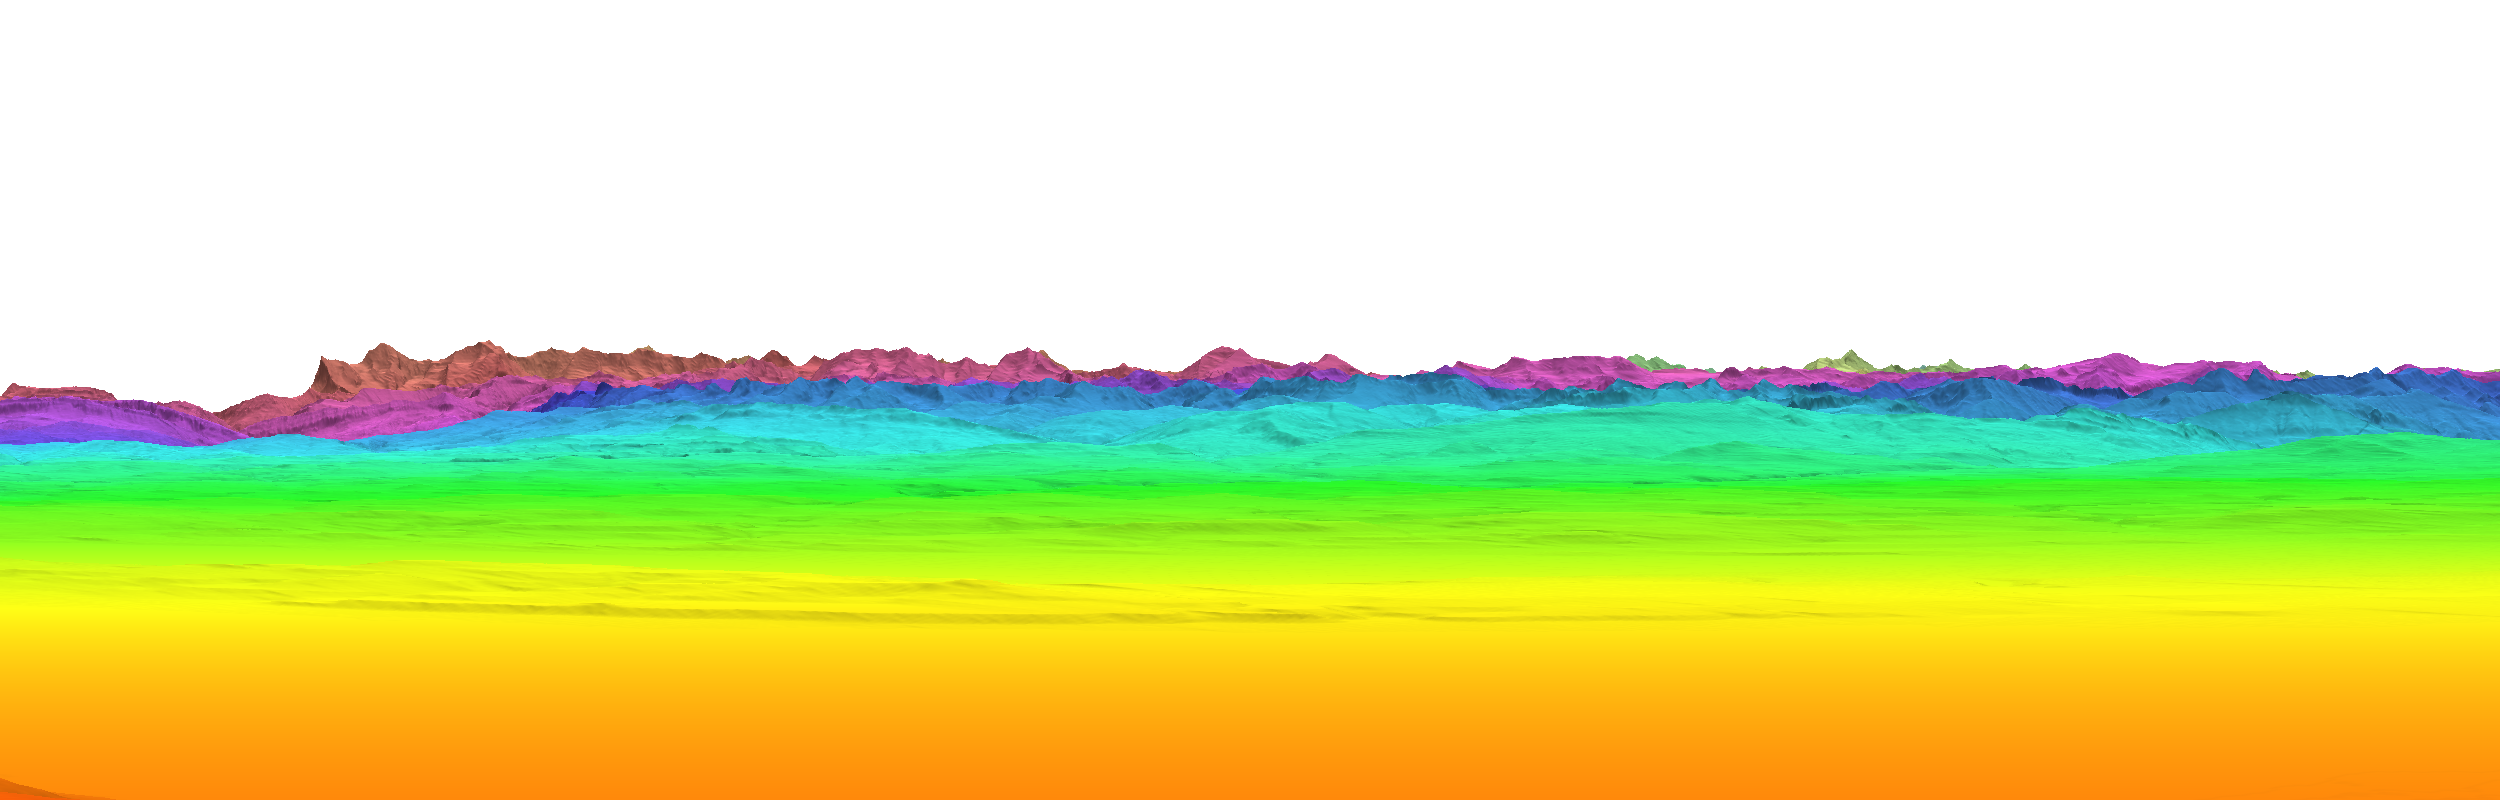
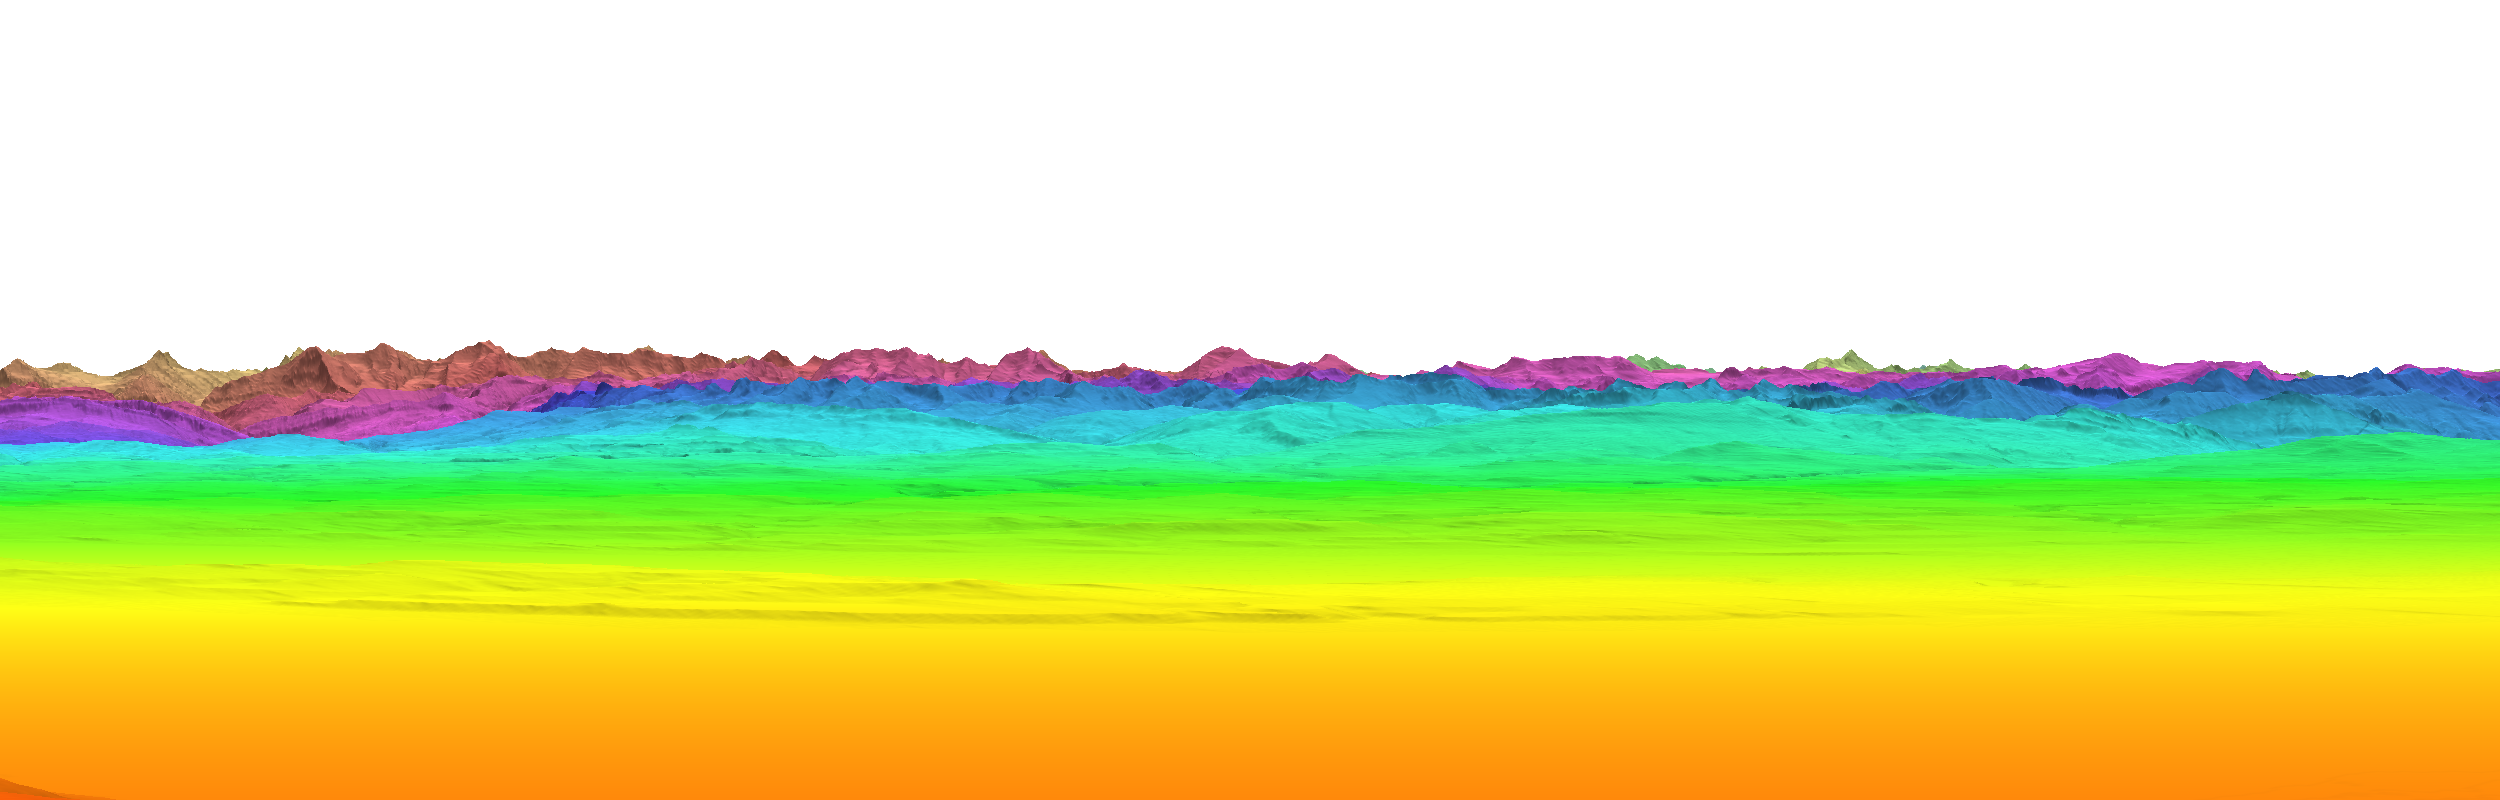
New method to load HgtDEMs faster.

Changed region(s): [[0.0, 0.4375, 0.156, 0.5312]]

diff --git a/src/ch/epfl/alpano/draw/DrawUserPanoramaColor.java b/src/ch/epfl/alpano/draw/DrawUserPanoramaColor.java
@@ -8,6 +8,7 @@ import static javax.imageio.ImageIO.write;
 
 import java.io.File;
 import java.io.IOException;
+import java.sql.Time;
 
 import ch.epfl.alpano.Panorama;
 import ch.epfl.alpano.PanoramaComputer;
@@ -15,6 +16,7 @@ import ch.epfl.alpano.PanoramaParameters;
 import ch.epfl.alpano.dem.ContinuousElevationModel;
 import ch.epfl.alpano.dem.DiscreteElevationModel;
 import ch.epfl.alpano.dem.HgtDiscreteElevationModel;
+import ch.epfl.alpano.dem.SuperHgtDiscreteElevationModel;
 import ch.epfl.alpano.gui.ChannelPainter;
 import ch.epfl.alpano.gui.ImagePainter;
 import ch.epfl.alpano.gui.PanoramaRenderer;
@@ -27,37 +29,37 @@ import javafx.scene.image.Image;
  * @author Maxence Jouve (269716)
  */
 final class DrawUserPanoramaColor {
+    private static final long START = System.nanoTime();
+
     final static File HGT_FILE_46_7 = new File("N46E007.hgt"),
             HGT_FILE_46_6 = new File("N46E006.hgt"),
             HGT_FILE_45_7 = new File("N45E007.hgt"),
             HGT_FILE_45_6 = new File("N45E006.hgt");
 
-    final static PanoramaParameters NIESEN = niesen().panoramaParameters(),
-            JURA = alpsFromJura().panoramaParameters(),
-            RACINE = racine().panoramaParameters(),
-            FINSTER = finsteraarhorn().panoramaParameters(),
-            SAUVABELIN = sauvabelin().panoramaParameters(),
-            PELICAN = pelican().panoramaParameters();
-
     public static void main(String[] as) throws IOException {
-        long start = System.nanoTime();
-        DiscreteElevationModel dDEM = new HgtDiscreteElevationModel(
-                HGT_FILE_46_7)
-                        .union(new HgtDiscreteElevationModel(HGT_FILE_46_6))
-                        .union((new HgtDiscreteElevationModel(HGT_FILE_45_7))
-                                .union(new HgtDiscreteElevationModel(
-                                        HGT_FILE_45_6)));
+        DiscreteElevationModel dDEM = new SuperHgtDiscreteElevationModel();
         PanoramaComputer p = new PanoramaComputer(
                 new ContinuousElevationModel(dDEM));
-        outputImage(p.computePanorama(NIESEN), "niesen-user.png");
-        outputImage(p.computePanorama(JURA), "jura-user.png");
-        outputImage(p.computePanorama(RACINE), "racine-user.png");
-        outputImage(p.computePanorama(FINSTER), "finsteraarhorn-user.png");
-        outputImage(p.computePanorama(SAUVABELIN), "sauvabelin-user.png");
-        outputImage(p.computePanorama(PELICAN), "pelican-user.png");
-        long stop = System.nanoTime();
-        System.out.printf("DrawPanoramaColor took %.3f ms.%n",
-                (stop - start) * 1e-6);
+        System.out.printf("PanoramaComputer loaded after %.3f ms.%n", getMS());
+        outputImage(p.computePanorama(NIESEN.panoramaParameters()),
+                "niesen-user.png");
+        System.out.printf("Niesen drawn after %.3f ms.%n", getMS());
+        outputImage(p.computePanorama(JURA.panoramaParameters()),
+                "jura-user.png");
+        System.out.printf("Jura drawn after %.3f ms.%n", getMS());
+        outputImage(p.computePanorama(RACINE.panoramaParameters()),
+                "racine-user.png");
+        System.out.printf("Racine drawn after %.3f ms.%n", getMS());
+        outputImage(p.computePanorama(FINSTER.panoramaParameters()),
+                "finsteraarhorn-user.png");
+        System.out.printf("Finsteraarhorn drawn after %.3f ms.%n", getMS());
+        outputImage(p.computePanorama(SAUVABELIN.panoramaParameters()),
+                "sauvabelin-user.png");
+        System.out.printf("Sauvabelin drawn after %.3f ms.%n", getMS());
+        outputImage(p.computePanorama(PELICAN.panoramaParameters()),
+                "pelican-user.png");
+        System.out.printf("Pelican drawn after %.3f ms, programm finished.%n",
+                getMS());
     }
 
     private static void outputImage(Panorama p, String name)
@@ -75,5 +77,9 @@ final class DrawUserPanoramaColor {
 
         Image i = PanoramaRenderer.renderPanorama(p, l);
         write(fromFXImage(i, null), "png", new File(name));
+    }
+
+    private static double getMS() {
+        return (System.nanoTime() - START) * 1e-6;
     }
 }

diff --git a/src/ch/epfl/alpano/gui/PredefinedPanoramas.java b/src/ch/epfl/alpano/gui/PredefinedPanoramas.java
@@ -16,23 +16,19 @@ public interface PredefinedPanoramas {
 
     /**
      * Crée les paramètres utilisateurs du Panorama du Niesen.
-     * 
-     * @return Les paramètres utilisateurs du Panorama du Niesen.
      */
-    static PanoramaUserParameters niesen() {
-        return new PanoramaUserParameters(7_6500, 46_7300, 600, 180, 110,
-                MAX_DISTANCE, WIDTH, HEIGHT, SUPER_SAMPLING_EX);
-    }
+    static PanoramaUserParameters NIESEN = new PanoramaUserParameters(7_6500,
+            46_7300, 600, 180, 110, MAX_DISTANCE, WIDTH, HEIGHT,
+            SUPER_SAMPLING_EX);
 
     /**
      * Crée les paramètres utilisateurs du Panorama des Alpes vues du Jura.
      * 
      * @return Les paramètres utilisateurs du Panorama des Alpes vues du Jura.
      */
-    static PanoramaUserParameters alpsFromJura() {
-        return new PanoramaUserParameters(6_8087, 47_0085, 1380, 162, 27,
-                MAX_DISTANCE, WIDTH, HEIGHT, SUPER_SAMPLING_EX);
-    }
+    static PanoramaUserParameters JURA = new PanoramaUserParameters(6_8087,
+            47_0085, 1380, 162, 27, MAX_DISTANCE, WIDTH, HEIGHT,
+            SUPER_SAMPLING_EX);
 
     /**
      * Crée les paramètres utilisateurs du Panorama des Alpes vues du Mont
@@ -41,10 +37,9 @@ public interface PredefinedPanoramas {
      * @return Les paramètres utilisateurs du Panorama des Alpes vues du Mont
      *         Racine.
      */
-    static PanoramaUserParameters racine() {
-        return new PanoramaUserParameters(6_8200, 47_0200, 1500, 135, 45,
-                MAX_DISTANCE, WIDTH, HEIGHT, SUPER_SAMPLING_EX);
-    }
+    static PanoramaUserParameters RACINE = new PanoramaUserParameters(6_8200,
+            47_0200, 1500, 135, 45, MAX_DISTANCE, WIDTH, HEIGHT,
+            SUPER_SAMPLING_EX);
 
     /**
      * Crée les paramètres utilisateurs du Panorama du Cervin vu du
@@ -53,10 +48,9 @@ public interface PredefinedPanoramas {
      * @return Les paramètres utilisateurs du Panorama du Cervin vu du
      *         Finsteraarhorn.
      */
-    static PanoramaUserParameters finsteraarhorn() {
-        return new PanoramaUserParameters(8_1260, 46_5374, 4300, 205, 20,
-                MAX_DISTANCE, WIDTH, HEIGHT, SUPER_SAMPLING_EX);
-    }
+    static PanoramaUserParameters FINSTER = new PanoramaUserParameters(8_1260,
+            46_5374, 4300, 205, 20, MAX_DISTANCE, WIDTH, HEIGHT,
+            SUPER_SAMPLING_EX);
 
     /**
      * Crée les paramètres utilisateurs du Panorama des Alpes vues de la Tour de
@@ -65,10 +59,9 @@ public interface PredefinedPanoramas {
      * @return Les paramètres utilisateurs du Panorama des Alpes vues de la Tour
      *         de Sauvabelin.
      */
-    static PanoramaUserParameters sauvabelin() {
-        return new PanoramaUserParameters(6_6385, 46_5353, 700, 135, 100,
-                MAX_DISTANCE, WIDTH, HEIGHT, SUPER_SAMPLING_EX);
-    }
+    static PanoramaUserParameters SAUVABELIN = new PanoramaUserParameters(
+            6_6385, 46_5353, 700, 135, 100, MAX_DISTANCE, WIDTH, HEIGHT,
+            SUPER_SAMPLING_EX);
 
     /**
      * Crée les paramètres utilisateurs du Panorama des Alpes vues de la plage
@@ -77,8 +70,7 @@ public interface PredefinedPanoramas {
      * @return Les paramètres utilisateurs du Panorama des Alpes vues de la
      *         plage du Pélican.
      */
-    static PanoramaUserParameters pelican() {
-        return new PanoramaUserParameters(6_5728, 46_5132, 380, 135, 60,
-                MAX_DISTANCE, WIDTH, HEIGHT, SUPER_SAMPLING_EX);
-    }
+    static PanoramaUserParameters PELICAN = new PanoramaUserParameters(6_5728,
+            46_5132, 380, 135, 60, MAX_DISTANCE, WIDTH, HEIGHT,
+            SUPER_SAMPLING_EX);
 }

diff --git a/src/ch/epfl/alpano/dem/SuperHgtDiscreteElevationModel.java b/src/ch/epfl/alpano/dem/SuperHgtDiscreteElevationModel.java
@@ -1,0 +1,77 @@
+package ch.epfl.alpano.dem;
+
+import static ch.epfl.alpano.Preconditions.checkArgument;
+
+import java.io.File;
+
+import ch.epfl.alpano.Interval1D;
+import ch.epfl.alpano.Interval2D;
+
+/**
+ * Représente un MNT discret obtenu d'un fichier au format HGT. Classe immuable.
+ *
+ * @author Robin Mamie (257234)
+ * @author Maxence Jouve (269716)
+ */
+public final class SuperHgtDiscreteElevationModel
+        implements DiscreteElevationModel {
+
+    private static final int AMOUNT = 18;
+
+    private static final int BASE_LON = 6;
+    private static final int BASE_LAT = 45;
+    private static final int BASE_LON_INDEX = (BASE_LON + 1)
+            * SAMPLES_PER_DEGREE;
+    private static final int BASE_LAT_INDEX = (BASE_LAT + 1)
+            * SAMPLES_PER_DEGREE;
+    private static final int SIZE_HOR = 6;
+
+    private final HgtDiscreteElevationModel[] sources;
+    
+    /**
+     * L'étendue du HgtDEM calculée dans le constructeur.
+     */
+    private final Interval2D extent;
+
+    public SuperHgtDiscreteElevationModel() {
+        sources = new HgtDiscreteElevationModel[AMOUNT];
+
+        for (int i = 0; i < AMOUNT; ++i)
+            sources[i] = new HgtDiscreteElevationModel(
+                    new File("N" + (BASE_LAT + i / SIZE_HOR) + "E0"
+                            + String.format("%02d", (BASE_LON + (i % SIZE_HOR)))
+                            + ".hgt"));
+
+        int lonIndex = BASE_LON * SAMPLES_PER_DEGREE;
+        int latIndex = BASE_LAT * SAMPLES_PER_DEGREE;
+        this.extent = new Interval2D(
+                new Interval1D(lonIndex, lonIndex + SAMPLES_PER_DEGREE * 6),
+                new Interval1D(latIndex, latIndex + SAMPLES_PER_DEGREE * 3));
+    }
+
+    @Override
+    public Interval2D extent() {
+        return extent;
+    }
+
+    private int getArray(int x, int y) {
+        int i = 0;
+        while (x > BASE_LON_INDEX) {
+            x -= SAMPLES_PER_DEGREE;
+            i += 1;
+        }
+        while (y > BASE_LAT_INDEX) {
+            y -= SAMPLES_PER_DEGREE;
+            i += SIZE_HOR;
+        }
+        return i;
+    }
+
+    @Override
+    public double elevationSample(int x, int y) {
+        checkArgument(extent().contains(x, y),
+                "The HgtDEM does not contain the given index.");
+        return sources[getArray(x, y)].elevationSample(x, y);
+    }
+
+}
